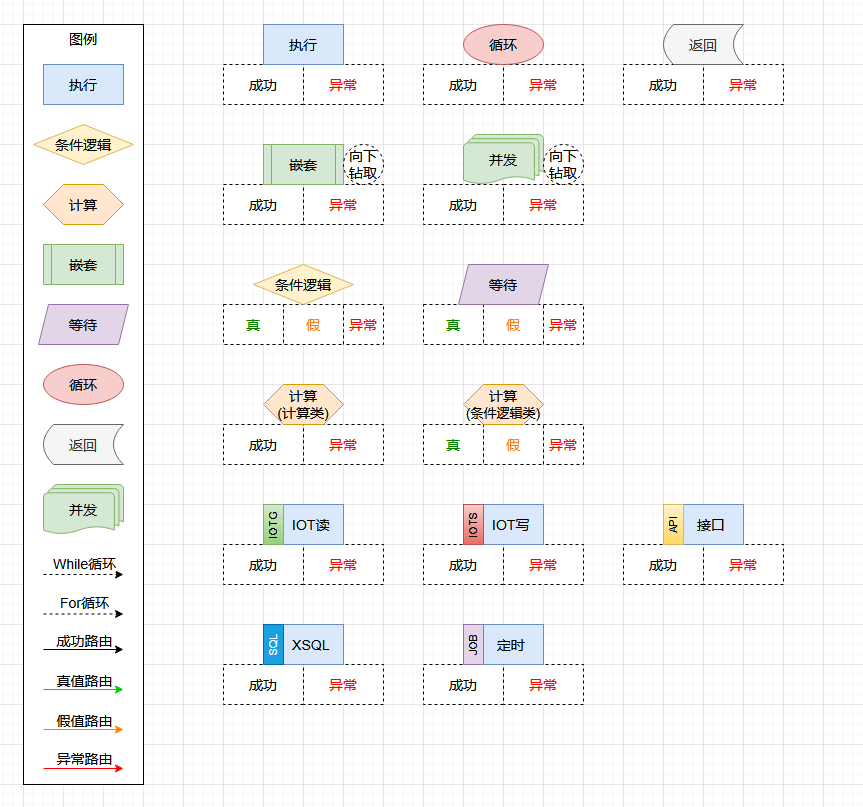
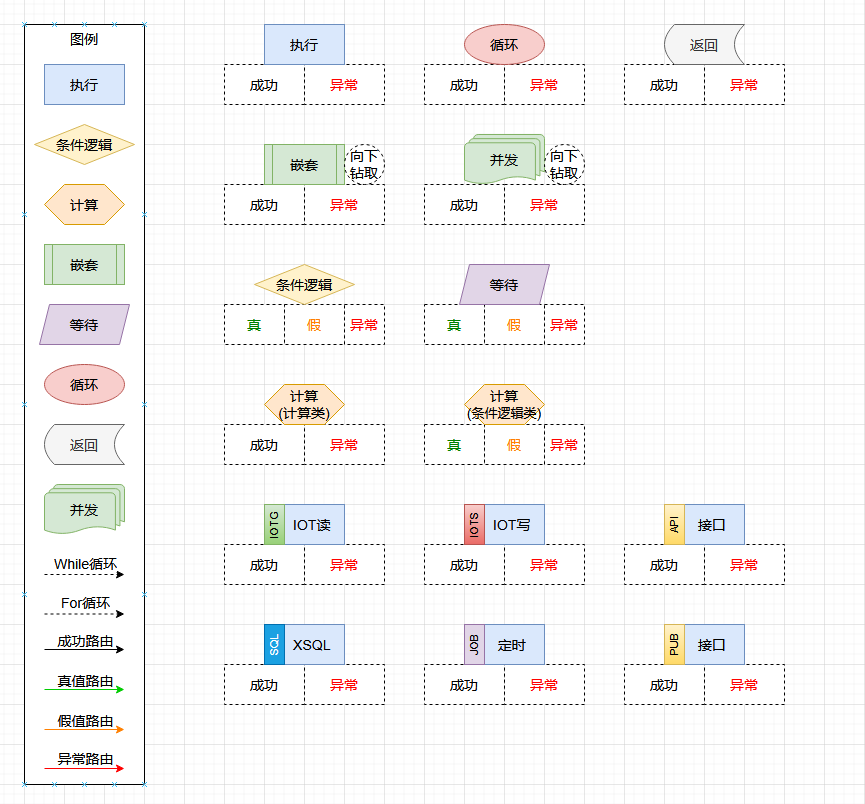
1.1.6
1. 文档：发布元素的说明

diff --git a/README.md b/README.md
@@ -35,6 +35,7 @@
     * [接口元素的举例](#接口元素的举例)
     * [XSQL元素的举例](#XSQL元素的举例)
     * [定时元素的举例](#定时元素的举例)
+    * [发布元素的举例](#发布元素的举例)
 
 
 
@@ -56,7 +57,7 @@
 概要说明
 ------
 
-    1. 9种编排元素。
+    1. 9种编排元素（基本元素）。
     
         1.1. 执行元素，配置及执行Java方法。可轻松扩展它，衍生成特定的业务元素。
     
@@ -76,43 +77,43 @@
         
         1.9. 定时元素，定时的周期性的驱动编排执行。
         
-    2. 4种编排路由。
-        
-        2.1 成功路由，元素执行成功时走的路。
-        
-        2.2 异常路由，元素执行出时异常时走的路。
-        
-        2.3 真值路由，条件逻辑元素、计算元素（逻辑类型）与等待元素（计数器类型），结果为真时走的路。
-        
-        2.4 假值路由，条件逻辑元素、计算元素（逻辑类型）与等待元素（计数器类型），结果为假时走的路。
-        
-    3. 2种编排循环。
-        
-        3.1 While循环路由，下层元素回流到上层元素时走的路。
-        
-        3.2 For循环路由，与循环元素配合（至少有一个），回流到循环元素的路。
-        
-        3.3 路由与循环可以组合后共存（12种），即：成功路由+For循环路由组成一条成功时For循环的路由。
-        
-    4. 5种衍生元素。
+    2. 5种衍生元素。
     
-        4.1. IOT读元素，衍生于执行元素，用于读取PLC数据。
+        2.1. IOT读元素，衍生于执行元素，用于读取PLC数据。
         
-        4.2. IOT写元素，衍生于执行元素，用于向PLC写入数据。
+        2.2. IOT写元素，衍生于执行元素，用于向PLC写入数据。
         
-        4.3. 接口元素，衍生于执行元素，用于API接口请求访问。
+        2.3. 接口元素，衍生于执行元素，用于API接口请求访问。
         
-        4.4. 发布元素，衍生于接口元素，支持MQTT发布消息。
+        2.4. 发布元素，衍生于接口元素，支持MQTT发布消息。
         
-        4.5. XSQL元素，衍生于执行元素，数据库CRUD、DDL、DML、XSQL组等操作。
+        2.5. XSQL元素，衍生于执行元素，数据库CRUD、DDL、DML、XSQL组等操作。
+        
+    3. 4种编排路由。
+        
+        3.1 成功路由，元素执行成功时走的路。
+        
+        3.2 异常路由，元素执行出时异常时走的路。
+        
+        3.3 真值路由，条件逻辑元素、计算元素（逻辑类型）与等待元素（计数器类型），结果为真时走的路。
+        
+        3.4 假值路由，条件逻辑元素、计算元素（逻辑类型）与等待元素（计数器类型），结果为假时走的路。
+        
+    4. 2种编排循环。
+        
+        4.1 While循环路由，下层元素回流到上层元素时走的路。
+        
+        4.2 For循环路由，与循环元素配合（至少有一个），回流到循环元素的路。
+        
+        4.3 路由与循环可以组合后共存（12种），即：成功路由+For循环路由组成一条成功时For循环的路由。
         
     5. 常用的系统预设变量。
     
-        4.1. :CallFlowContext，编排实例ID的变量名称。
+        5.1. :CallFlowContext，编排实例ID的变量名称。
         
-        4.2. :CallFlowContext，编排实例上下文的变量名称。它作为参数向Java方法传参，可读可写其内容。
+        5.2. :CallFlowContext，编排实例上下文的变量名称。它作为参数向Java方法传参，可读可写其内容。
         
-        4.3. :CallFlowErrorResult，编排实例异常的变量名称。仅最后一次异常的信息。
+        5.3. :CallFlowErrorResult，编排实例异常的变量名称。仅最后一次异常的信息。
 
 
 
@@ -2782,7 +2783,105 @@ Map<String ,Object> v_Context = new HashMap<String ,Object>();
 v_Context.put("IP" ,"114.114.114.114"); // 它是给19号编排执行用的上下文参数
 
 // 执行编排。返回执行结果       
-ExecuteResult       v_Result  = CallFlow.execute(v_XSQLC ,v_Context);
+ExecuteResult       v_Result  = CallFlow.execute(v_JOB ,v_Context);
 
 $Jobs.startup();  // 首个秒级周期的定时任务，需要在最后启动任务组
+```
+
+
+
+
+
+发布元素的举例
+------
+
+[查看代码](src/test/java/org/hy/common/callflow/junit/cflow022) [返回目录](#目录)
+
+__编排图例演示__
+
+![image](src/test/java/org/hy/common/callflow/junit/cflow022/JU_CFlow022.png)
+
+__编排配置__
+
+```xml
+<?xml version="1.0" encoding="UTF-8"?>
+
+<config>
+
+    <import name="xconfig"    class="java.util.ArrayList" />
+    <import name="xmt"        class="org.hy.common.callflow.nesting.MTConfig" />
+    <import name="xnesting"   class="org.hy.common.callflow.nesting.NestingConfig" />
+    <import name="xfor"       class="org.hy.common.callflow.forloop.ForConfig" />
+    <import name="xnode"      class="org.hy.common.callflow.node.NodeConfig" />
+    <import name="xwait"      class="org.hy.common.callflow.node.WaitConfig" />
+    <import name="xcalculate" class="org.hy.common.callflow.node.CalculateConfig" />
+    <import name="xcondition" class="org.hy.common.callflow.ifelse.ConditionConfig" />
+    <import name="xreturn"    class="org.hy.common.callflow.returns.ReturnConfig" />
+    <import name="xapi"       class="org.hy.common.callflow.node.APIConfig" />
+    <import name="xpublish"   class="org.hy.common.callflow.event.PublishConfig" />
+    <import name="xsql"       class="org.hy.common.callflow.node.XSQLConfig" />
+    <import name="xjob"       class="org.hy.common.callflow.event.JOBConfig" />
+    
+    
+    
+    <!-- CFlow编排引擎配置 -->
+    <xconfig>
+    
+        <xnode id="XNode_CF022_1_1">
+            <comment>消息发布成功时</comment>
+            <callXID>:XProgram</callXID>                    <!-- 定义执行对象 -->
+            <callMethod>method_Finish</callMethod>          <!-- 定义执行方法 -->
+        </xnode>
+        
+        
+        <xnode id="XNode_CF022_1_2">
+            <comment>消息发布异常时</comment>
+            <callXID>:XProgram</callXID>                    <!-- 定义执行对象 -->
+            <callMethod>method_Error</callMethod>           <!-- 定义执行方法 -->
+            <callParam>
+                <value>:CallFlowErrorResult</value>         <!-- 系统预设的编排实例异常结果的变量名称 -->
+            </callParam>
+        </xnode>
+        
+    
+        <xpublish id="XPublish_CF022_1">
+            <comment>MQTT发布消息</comment>
+            <publishType>MQTT</publishType>                 <!-- 发布消息的类型。（可以不用显式定义。默认为MQTT） -->
+            <publishURL>https://www.lpslab.cn</publishURL>  <!-- 发布微服务地址 -->
+            <publishXID>XPublish</publishXID>               <!-- 数据发布XID。配置在上面的微服务中 -->
+            <message>:Message</message>                     <!-- 定时发布消息的变量名称 -->
+            <userID>:UserID</userID>
+            <route>
+                <succeed>                                   <!-- 成功时，关联后置节点 -->
+                    <next ref="XNode_CF022_1_1" />
+                    <comment>成功时</comment>
+                </succeed>
+                <error>                                     <!-- 异常时，关联后置节点 -->
+                    <next ref="XNode_CF022_1_2" />
+                    <comment>异常时</comment>
+                </error>
+            </route>
+        </xpublish>
+        
+    </xconfig>
+    
+</config>
+```
+
+__执行编排__
+
+```java
+// 初始化被编排的执行对象方法（按业务需要）
+XJava.putObject("XProgram" ,new Program());
+        
+// 获取编排中的首个元素
+PublishConfig       v_Publish = (PublishConfig) XJava.getObject("XPublish_CF022_1");
+
+// 初始化上下文（可从中方便的获取中间运算信息，也可传NULL）
+Map<String ,Object> v_Context = new HashMap<String ,Object>();
+v_Context.put("Message" ,"Who am I?"); // 发布的消息内容
+v_Context.put("UserID"  ,"ZhengWei");  // 发布者
+
+// 执行编排。返回执行结果       
+ExecuteResult       v_Result  = CallFlow.execute(v_Publish ,v_Context);
 ```
